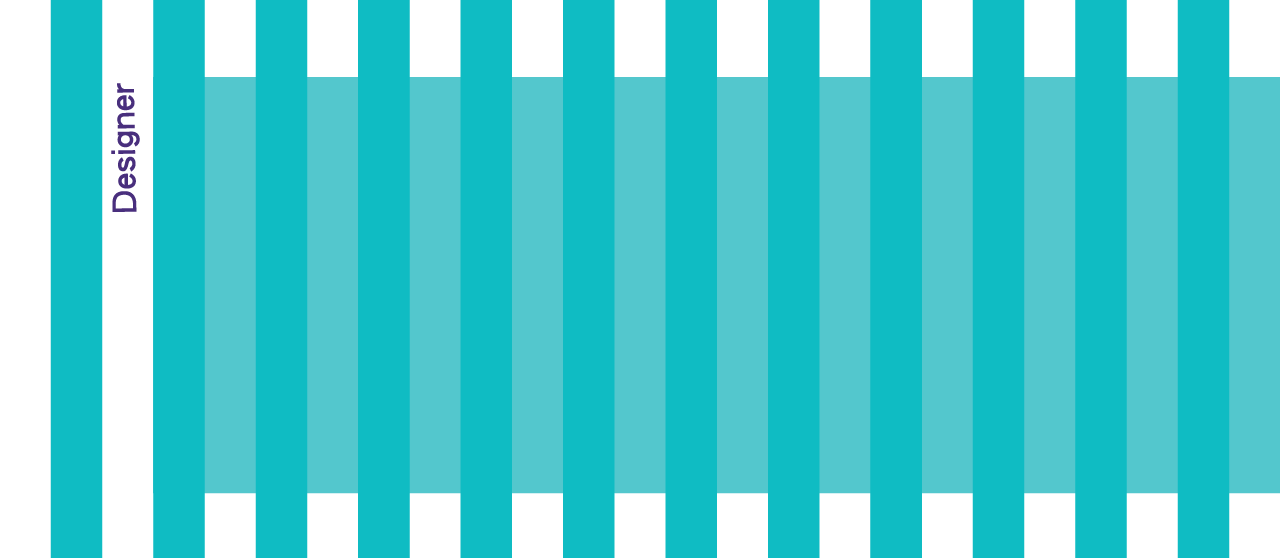
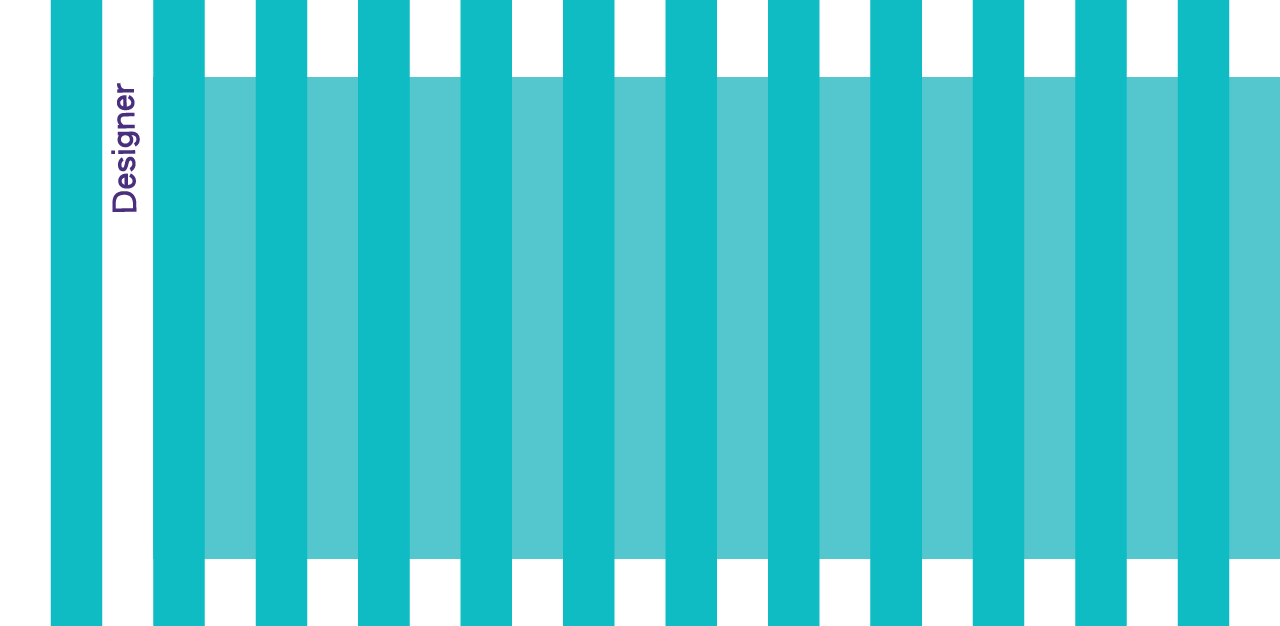
首頁完成

diff --git a/final web/style.css b/final web/style.css
@@ -20,7 +20,7 @@ html,body, div, h1, h2, h3, h4, h5, h6, p, article, section, aside, nav{
     margin: 0;
 
 }
-
+/*ˊ連結欄*/
 nav{
     position: fixed;
     background-color:	#FFD700;
@@ -44,7 +44,7 @@ li a, .dropbtn {
 }
 
 li a:hover, .dropdown:hover .dropbtn {
-    background-color: #111;
+    background-color: #38CDCF;
 }
 
 
@@ -63,24 +63,25 @@ li a:hover, .dropdown:hover .dropbtn {
 .dropdown-content {
     display: none;
     position: absolute;
-    background-color: #f9f9f9;
+    background-color: #F679A2;
     min-width: 160px;
     box-shadow: 0px 8px 16px 0px rgba(0,0,0,0.2);
 }
 
 .dropdown-content a {
-    color: black;
+    color: #F2F2F2;
     padding: 12px 16px;
     text-decoration: none;
     display: block;
 }
 
-.dropdown-content a:hover {background-color: #f1f1f1}
+.dropdown-content a:hover {background-color: #8344ED}
 
 .dropdown:hover .dropdown-content {
     display: block;
 }
 
+/*首頁圖*/
 header{
    background-image:url(../image/01.png);
     height: 726px;
@@ -100,27 +101,29 @@ header{
 
 .author{
     overflow: auto;
-    height: 558px;
+    height: 626px;
     background-image: url(../image/02.png);
     background-repeat: no-repeat
 }
 
-/*圖片遮罩與框線*/
+
 .author img{
     border-radius: 50%;
     position:relative;
-    top: 110px;
+    top: 180px;
     left: -60px;
-    box-shadow:10px 10px  #7300e6; 
+    box-shadow:10px 10px  #5900b3; 
 
 }
-
+/*work背景色*/
 section:nth-of-type(2){
     background-color: #FFD700;
     padding: 40px;
+    padding-right:10px;
+    height: 700px;
   
 }
-
+/*圖片遮罩與框線*/
 .thumbnail{
     float: left;
     position: relative;
@@ -134,7 +137,7 @@ section:nth-of-type(2){
     display:block;
     width: 250px;
     height: 250px;
-    background:#7300e6;
+    background:#5900b3;
     position: absolute;
     top: 0;
     opacity: 0.7;
@@ -142,7 +145,7 @@ section:nth-of-type(2){
 }
 
 .thumbnail:nth-child(1){
-    border: 8px solid black;
+    border: 8px solid #5900b3;
     float: left;
     position: relative;
     width:250px;
@@ -151,7 +154,7 @@ section:nth-of-type(2){
 }
 
 .thumbnail:nth-child(3){
-    border: 8px solid black;
+    border: 8px solid #5900b3;
     float: left;
     position: relative;
     width:250px;
@@ -160,7 +163,7 @@ section:nth-of-type(2){
 }
 
 .thumbnail:nth-child(6){
-    border: 8px solid black;
+    border: 8px solid #5900b3;
     float: left;
     position: relative;
     width:250px;
@@ -169,7 +172,7 @@ section:nth-of-type(2){
 }
 
 .thumbnail:nth-child(8){
-    border: 8px solid black;
+    border: 8px solid #5900b3;
     float: left;
     position: relative;
     width:250px;
@@ -297,16 +300,17 @@ section:nth-of-type(2){
 
 
 footer{
-    height: 150px;
-    background-color:#ff80aa;
+    height:80px;
+    background-color:#F9598D;
     
 }
 
 footer p{
    position: relative;
    text-align: right;
-   padding-top:120px; 
+   padding-top:50px; 
    padding-right: 30px;
    letter-spacing: 1px;
+   color: #640452;
     
 }

diff --git a/final web/final web.html b/final web/final web.html
@@ -7,7 +7,8 @@
     <meta name="viewport" content="width=device-width, initial-scale=1.0">
     <meta http-equiv="X-UA-Compatible" content="ie=edge">
     <link rel="stylesheet" type="text/css" href="style.css">
-    <title>Document</title>
+    <link rel="Shortcut Icon" type="image/x-icon" href="../image/icon.ico" />
+    <title>Midori</title>
     <link rel="stylesheet" href="https://maxcdn.bootstrapcdn.com/font-awesome/4.7.0/css/font-awesome.min.css">
 
 </head>
@@ -18,21 +19,21 @@
             <div class="dropdown">
                 <a href="#" class="dropbtn"><i class="fa fa-bars" aria-hidden="true"></i></a>
                 <div class="dropdown-content">
-                    <a href="#">about</a>
-                    <a href="#">designer</a>
-                    <a href="#">work</a>
+                    <a href="#about">about</a>
+                    <a href="#author">designer</a>
+                    <a href="#work">work</a>
                 </div>
             </div>
         </div>
     </nav>
-    <header>
+    <header id="about">
         <div class="container-fluid"></div>
 
     </header>
 
     <section>
         <div class="container-fluid">
-            <div class="author">
+            <div class="author" id="author">
                 <img src="../image/photo.jpg" alt="">
 
                 <p>Lorem ipsum dolor sit amet, consectetur adipisicing elit. Et commodi, officia. Mollitia molestias impeditvero
@@ -43,7 +44,7 @@
     </section>
 
 
-    <section>
+    <section id="work">
         <div class="container">
 
             <div class="thumbnail">
@@ -64,7 +65,7 @@
             </div>
             <div class="thumbnail">
                 <img src="https://unsplash.it/300/300" alt="">
-                <h1>Vidio</h1>
+                <h1>Video</h1>
             </div>
             <div class="thumbnail">
                 <img src="https://unsplash.it/300/300" alt="">
@@ -72,7 +73,7 @@
             </div>
             <div class="thumbnail">
                 <img src="https://unsplash.it/300/300" alt="">
-                <h1>Commoig soon</h1>
+                <h1>Coming soon</h1>
             </div>
             <div class="thumbnail">
                 <img src="https://unsplash.it/300/300" alt="">

diff --git a/final web/Logo.html b/final web/Logo.html
@@ -1,0 +1,16 @@
+<!DOCTYPE html>
+<html lang="en">
+
+<head>
+    <meta charset="UTF-8">
+    <meta name="viewport" content="width=device-width, initial-scale=1.0">
+    <link rel="Shortcut Icon" type="image/x-icon" href="../image/icon.ico" />
+    <meta http-equiv="X-UA-Compatible" content="ie=edge">
+    <title>Logo</title>
+</head>
+
+<body>
+
+</body>
+
+</html>
